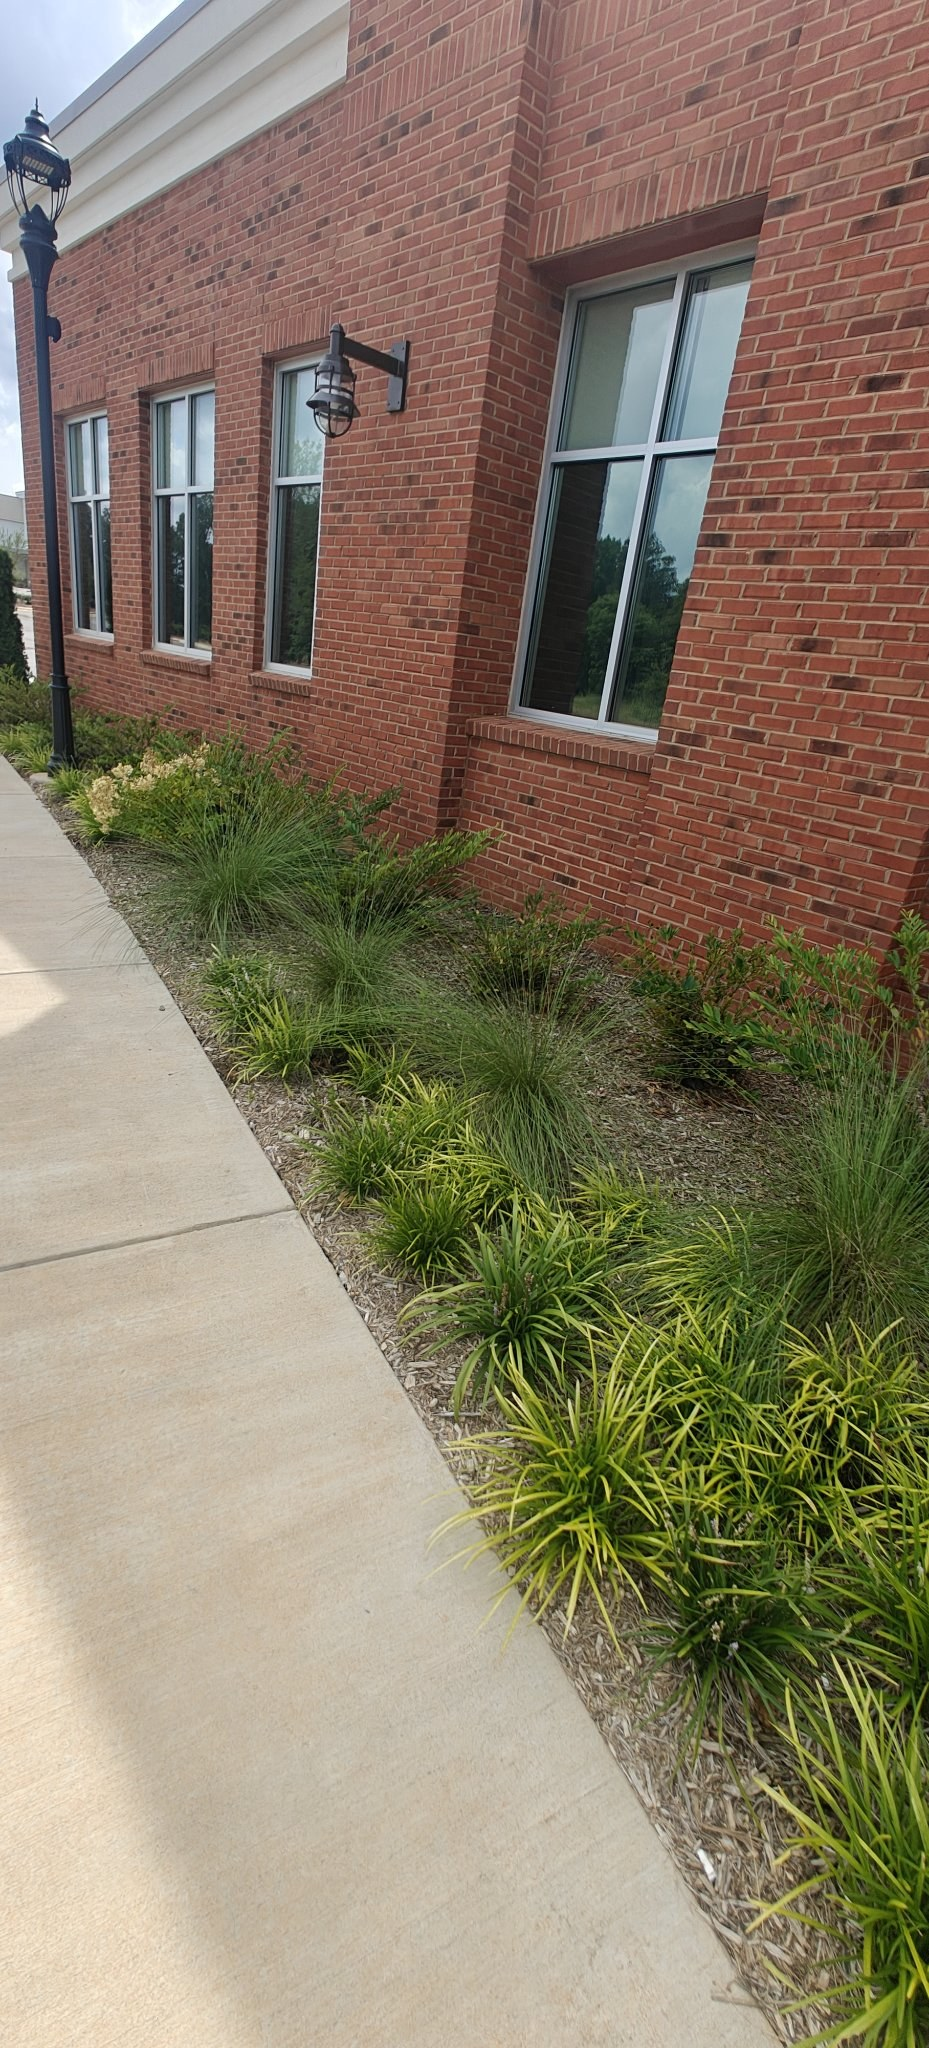
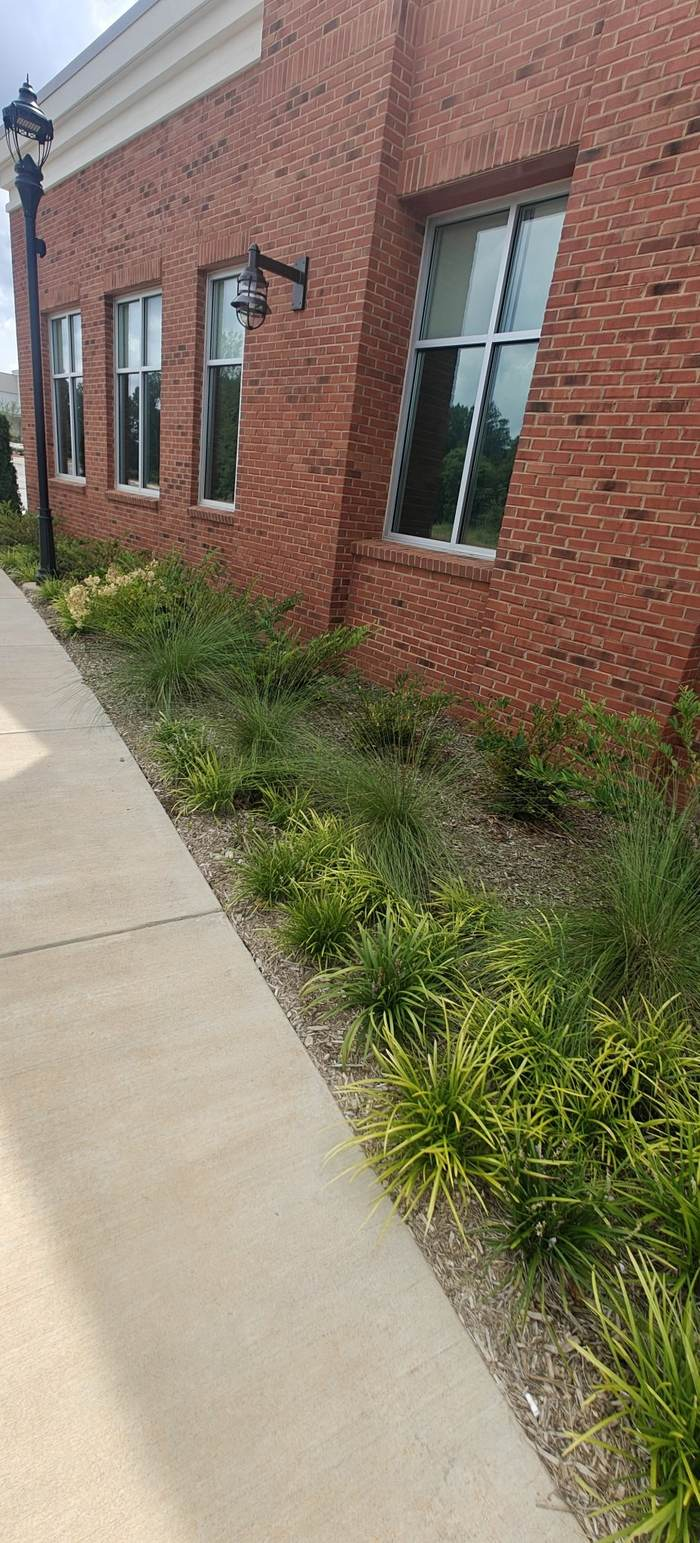
Performance: compress/resize photos (jobs 7.0M->2.1M, hero 656K->119K, researcher 612K->141K, 2x display width; attrs matched to true dims)

diff --git a/work/andola.html b/work/andola.html
@@ -59,7 +59,7 @@
     </header>
 
     <figure class="photo-frame specimen-art">
-      <img src="../assets/photos/jobs/novant-wesley-chapel-9.jpg" alt="Long turf strip with planted beds along the building" width="929" height="2048" loading="eager">
+      <img src="../assets/photos/jobs/novant-wesley-chapel-9.jpg" alt="Long turf strip with planted beds along the building" width="700" height="1543" loading="eager">
       <figcaption class="photo-caption">PLATE 01, TURF AND BEDS, NOVANT HEALTH, WESLEY CHAPEL, SEP 2026</figcaption>
     </figure>
 
@@ -87,19 +87,19 @@
       <p class="job-proof">Steep grade, so I relocated a sprinkler and a termite box, built a flat foundation (lowered part of it, raised part seven inches), ringed the footprint with a retaining wall, filled it with crusher run and sand, set the pavers, and moved eleven cubic feet of dirt into the yard to grade and seed it. Proper drainage throughout.</p>
       <div class="job-photos">
         <figure class="photo-frame">
-          <img src="../assets/photos/jobs/patio-extension-before-1.jpg" alt="Patio extension before: bare dirt patch beside the patio wall" width="929" height="2048" loading="lazy">
+          <img src="../assets/photos/jobs/patio-extension-before-1.jpg" alt="Patio extension before: bare dirt patch beside the patio wall" width="700" height="1543" loading="lazy">
           <figcaption class="photo-caption">Before</figcaption>
         </figure>
         <figure class="photo-frame">
-          <img src="../assets/photos/jobs/patio-extension-before-2.jpg" alt="Patio extension before: dirt slope by the patio steps" width="929" height="2048" loading="lazy">
+          <img src="../assets/photos/jobs/patio-extension-before-2.jpg" alt="Patio extension before: dirt slope by the patio steps" width="700" height="1543" loading="lazy">
           <figcaption class="photo-caption">Before</figcaption>
         </figure>
         <figure class="photo-frame">
-          <img src="../assets/photos/jobs/patio-extension-after-1.jpg" alt="Patio extension after: new paver surface" width="1052" height="1306" loading="lazy">
+          <img src="../assets/photos/jobs/patio-extension-after-1.jpg" alt="Patio extension after: new paver surface" width="800" height="993" loading="lazy">
           <figcaption class="photo-caption">After</figcaption>
         </figure>
         <figure class="photo-frame">
-          <img src="../assets/photos/jobs/patio-extension-after-2.jpg" alt="Patio extension after: finished paver patio tied into the existing wall and steps" width="1622" height="2048" loading="lazy">
+          <img src="../assets/photos/jobs/patio-extension-after-2.jpg" alt="Patio extension after: finished paver patio tied into the existing wall and steps" width="700" height="884" loading="lazy">
           <figcaption class="photo-caption">After</figcaption>
         </figure>
       </div>
@@ -110,39 +110,39 @@
       <p class="job-proof">Commercial grounds maintenance at a Novant Health property in Wesley Chapel, subcontracted under North American Lawn and Landscape. I have cared for this property since the summer of 2025: turf, planting beds, ornamentals, parking islands. Photos from September 2026.</p>
       <div class="job-photos">
         <figure class="photo-frame">
-          <img src="../assets/photos/jobs/novant-wesley-chapel-9.jpg" alt="Long turf strip with planted beds along the building" width="929" height="2048" loading="lazy">
+          <img src="../assets/photos/jobs/novant-wesley-chapel-9.jpg" alt="Long turf strip with planted beds along the building" width="700" height="1543" loading="lazy">
           <figcaption class="photo-caption">Turf and beds</figcaption>
         </figure>
         <figure class="photo-frame">
-          <img src="../assets/photos/jobs/novant-wesley-chapel-2.jpg" alt="Striped lawn beside reserved parking" width="929" height="2048" loading="lazy">
+          <img src="../assets/photos/jobs/novant-wesley-chapel-2.jpg" alt="Striped lawn beside reserved parking" width="700" height="1543" loading="lazy">
           <figcaption class="photo-caption">Lawn stripe</figcaption>
         </figure>
         <figure class="photo-frame">
-          <img src="../assets/photos/jobs/novant-wesley-chapel-3.jpg" alt="Manicured lawn and planting beds along the brick building" width="929" height="2048" loading="lazy">
+          <img src="../assets/photos/jobs/novant-wesley-chapel-3.jpg" alt="Manicured lawn and planting beds along the brick building" width="700" height="1543" loading="lazy">
           <figcaption class="photo-caption">Building frontage</figcaption>
         </figure>
         <figure class="photo-frame">
-          <img src="../assets/photos/jobs/novant-wesley-chapel-1.jpg" alt="Parking island with young tree at the property entrance" width="929" height="2048" loading="lazy">
+          <img src="../assets/photos/jobs/novant-wesley-chapel-1.jpg" alt="Parking island with young tree at the property entrance" width="700" height="1543" loading="lazy">
           <figcaption class="photo-caption">Property entrance</figcaption>
         </figure>
         <figure class="photo-frame">
-          <img src="../assets/photos/jobs/novant-wesley-chapel-8.jpg" alt="Foundation planting with hydrangeas and arborvitae" width="929" height="2048" loading="lazy">
+          <img src="../assets/photos/jobs/novant-wesley-chapel-8.jpg" alt="Foundation planting with hydrangeas and arborvitae" width="700" height="1543" loading="lazy">
           <figcaption class="photo-caption">Foundation planting</figcaption>
         </figure>
         <figure class="photo-frame">
-          <img src="../assets/photos/jobs/novant-wesley-chapel-5.jpg" alt="Parking lot island with turf and young tree" width="929" height="2048" loading="lazy">
+          <img src="../assets/photos/jobs/novant-wesley-chapel-5.jpg" alt="Parking lot island with turf and young tree" width="700" height="1543" loading="lazy">
           <figcaption class="photo-caption">Parking island</figcaption>
         </figure>
         <figure class="photo-frame">
-          <img src="../assets/photos/jobs/novant-wesley-chapel-4.jpg" alt="Ornamental grasses and shrubs in the building beds" width="929" height="2048" loading="lazy">
+          <img src="../assets/photos/jobs/novant-wesley-chapel-4.jpg" alt="Ornamental grasses and shrubs in the building beds" width="700" height="1543" loading="lazy">
           <figcaption class="photo-caption">Ornamental beds</figcaption>
         </figure>
         <figure class="photo-frame">
-          <img src="../assets/photos/jobs/novant-wesley-chapel-7.jpg" alt="Arborvitae and shrubs along the walkway" width="929" height="2048" loading="lazy">
+          <img src="../assets/photos/jobs/novant-wesley-chapel-7.jpg" alt="Arborvitae and shrubs along the walkway" width="700" height="1543" loading="lazy">
           <figcaption class="photo-caption">Walkway beds</figcaption>
         </figure>
         <figure class="photo-frame">
-          <img src="../assets/photos/jobs/novant-wesley-chapel-6.jpg" alt="Planting beds against the herringbone brick wall" width="929" height="2048" loading="lazy">
+          <img src="../assets/photos/jobs/novant-wesley-chapel-6.jpg" alt="Planting beds against the herringbone brick wall" width="700" height="1543" loading="lazy">
           <figcaption class="photo-caption">Brick wall beds</figcaption>
         </figure>
       </div>

diff --git a/index.html b/index.html
@@ -56,7 +56,7 @@
     <h1 class="thesis">I turn ideas into things that exist.</h1>
     <p class="prologue-sub">I&rsquo;m a 20-year-old builder running a real landscaping business and shipping real software, with AI as the leverage. This site is the logbook: every experiment, labeled honestly.</p>
     <figure class="photo-frame photo-frame-hero">
-      <img src="assets/photos/hero-darek.jpg" alt="Darek Anderson standing in front of red rock desert formations" width="1536" height="2048" loading="eager" fetchpriority="high">
+      <img src="assets/photos/hero-darek.jpg" alt="Darek Anderson standing in front of red rock desert formations" width="840" height="1120" loading="eager" fetchpriority="high">
       <figcaption class="photo-caption">FIG. 01, DAREK ANDERSON</figcaption>
     </figure>
     <nav class="cta-row" aria-label="Start here">
@@ -82,7 +82,7 @@
         <h3 class="shelf-name"><a href="work/andola.html">Andola Landscape Services</a> <span class="stamp">OPERATING BUSINESS</span></h3>
         <p class="shelf-proof">$43.6K revenue and $20.6K net in the first eight months on the books, a 47% net margin. If a number is not in QuickBooks, I do not put it on this page.</p>
         <figure class="photo-frame shelf-photo">
-          <img src="assets/photos/jobs/novant-wesley-chapel-9.jpg" alt="Long turf strip with planted beds along the building" width="929" height="2048" loading="lazy">
+          <img src="assets/photos/jobs/novant-wesley-chapel-9.jpg" alt="Long turf strip with planted beds along the building" width="700" height="1543" loading="lazy">
           <figcaption class="photo-caption">TURF AND BEDS, NOVANT HEALTH, WESLEY CHAPEL, SEP 2026</figcaption>
         </figure>
         <p class="shelf-link"><a href="work/andola.html">Read the Andola case file</a></p>
@@ -144,7 +144,7 @@
     <div class="specimen-grid">
       <article class="specimen-card specimen-card--wide">
         <a class="specimen-art" href="work/andola.html">
-          <img src="assets/photos/jobs/novant-wesley-chapel-9.jpg" alt="Long turf strip with planted beds along the building" width="929" height="2048" loading="lazy">
+          <img src="assets/photos/jobs/novant-wesley-chapel-9.jpg" alt="Long turf strip with planted beds along the building" width="700" height="1543" loading="lazy">
         </a>
         <p class="photo-caption">PLATE 01, TURF AND BEDS, NOVANT HEALTH, WESLEY CHAPEL</p>
         <p class="exp-index">EXP-01</p>

diff --git a/story.html b/story.html
@@ -56,7 +56,7 @@
     </div>
     <div class="chapter-body">
       <figure class="photo-frame photo-frame-researcher">
-        <img src="assets/photos/researcher-darek.jpg" alt="Darek with friends on a red pickup truck at a mountain overlook" width="2048" height="1536" loading="eager" fetchpriority="high">
+        <img src="assets/photos/researcher-darek.jpg" alt="Darek with friends on a red pickup truck at a mountain overlook" width="1120" height="840" loading="eager" fetchpriority="high">
         <figcaption class="photo-caption">PLATE 01, DAREK WITH FRIENDS ON A RED PICKUP TRUCK AT A MOUNTAIN OVERLOOK</figcaption>
       </figure>
 
@@ -91,7 +91,7 @@
           <h2 class="timeline-title">Coding with AI</h2>
           <p>I started coding with AI in August 2026. But I have leveraged AI a ton since it came out, and used it a lot for Andola. One of my first real uses was making invoice templates. About two months into coding with it, this logbook is the result: one operating business and six software systems, most of them running without me. AI is the builder. I am the one who decides what gets built and whether it is any good.</p>
           <figure class="photo-frame timeline-photo">
-            <img src="assets/photos/hero-darek.jpg" alt="Darek Anderson standing in front of red rock desert formations" width="1536" height="2048" loading="lazy">
+            <img src="assets/photos/hero-darek.jpg" alt="Darek Anderson standing in front of red rock desert formations" width="840" height="1120" loading="lazy">
             <figcaption class="photo-caption">PLATE 02, DAREK ANDERSON</figcaption>
           </figure>
         </li>
